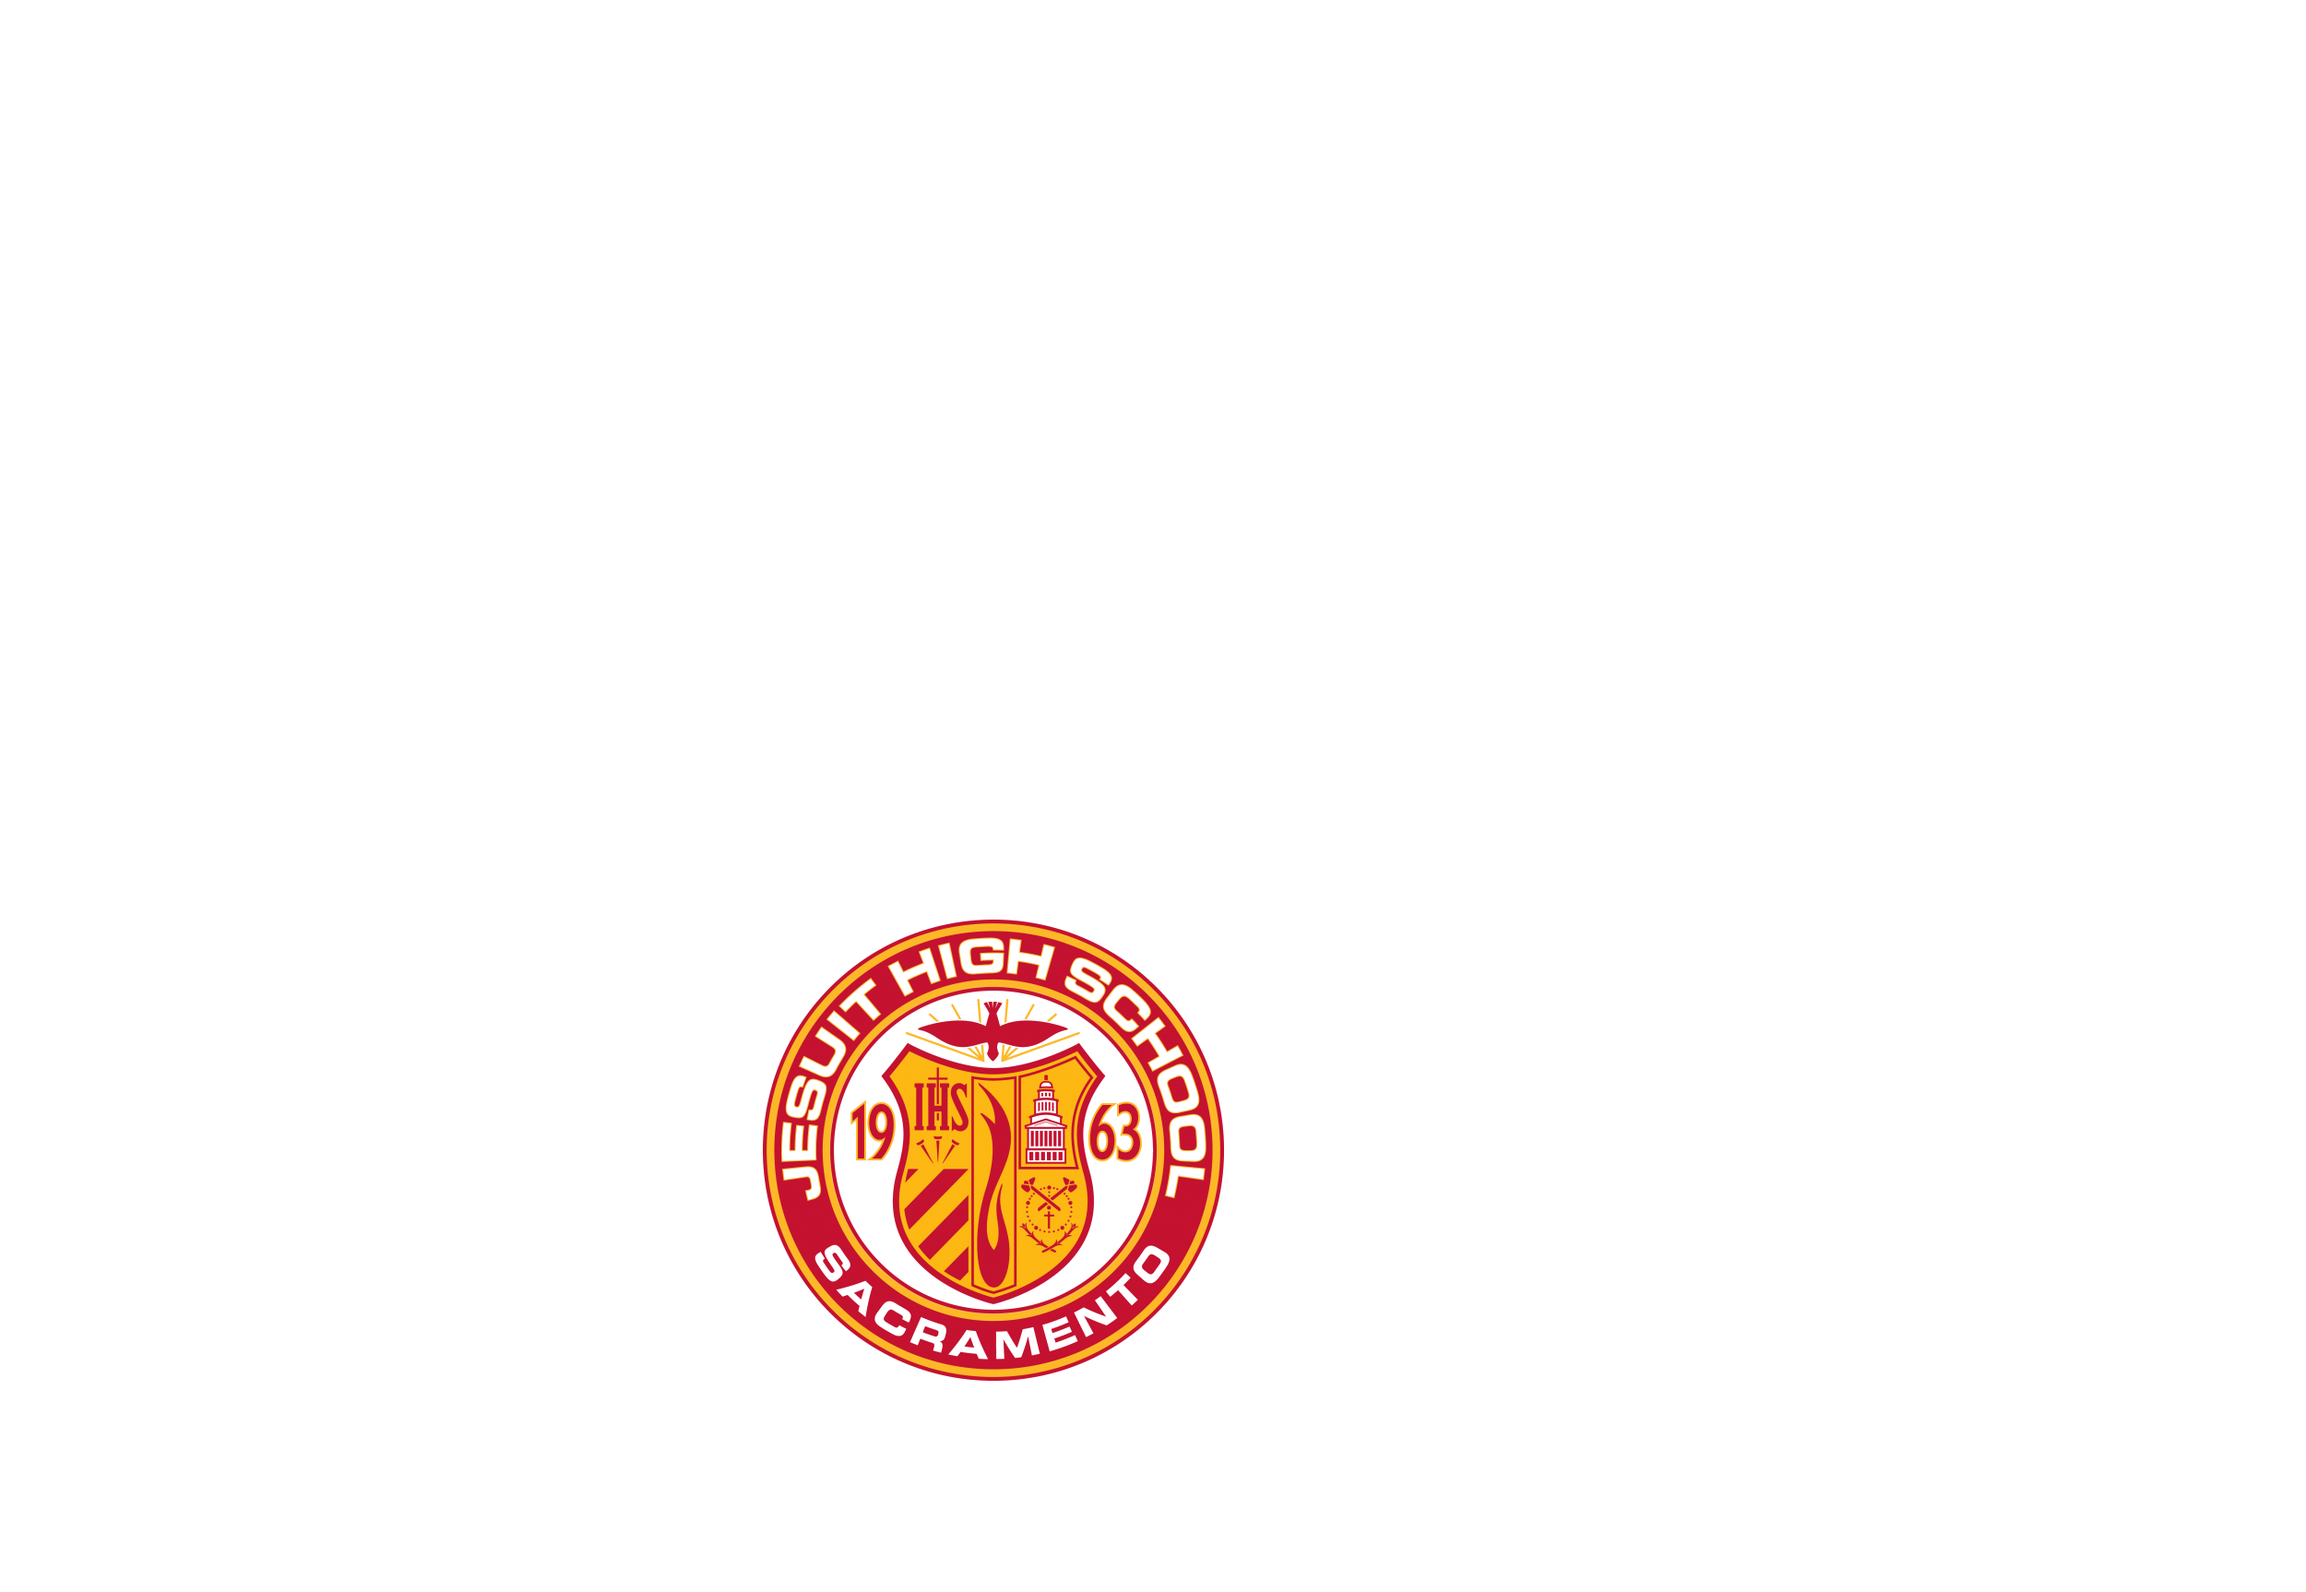
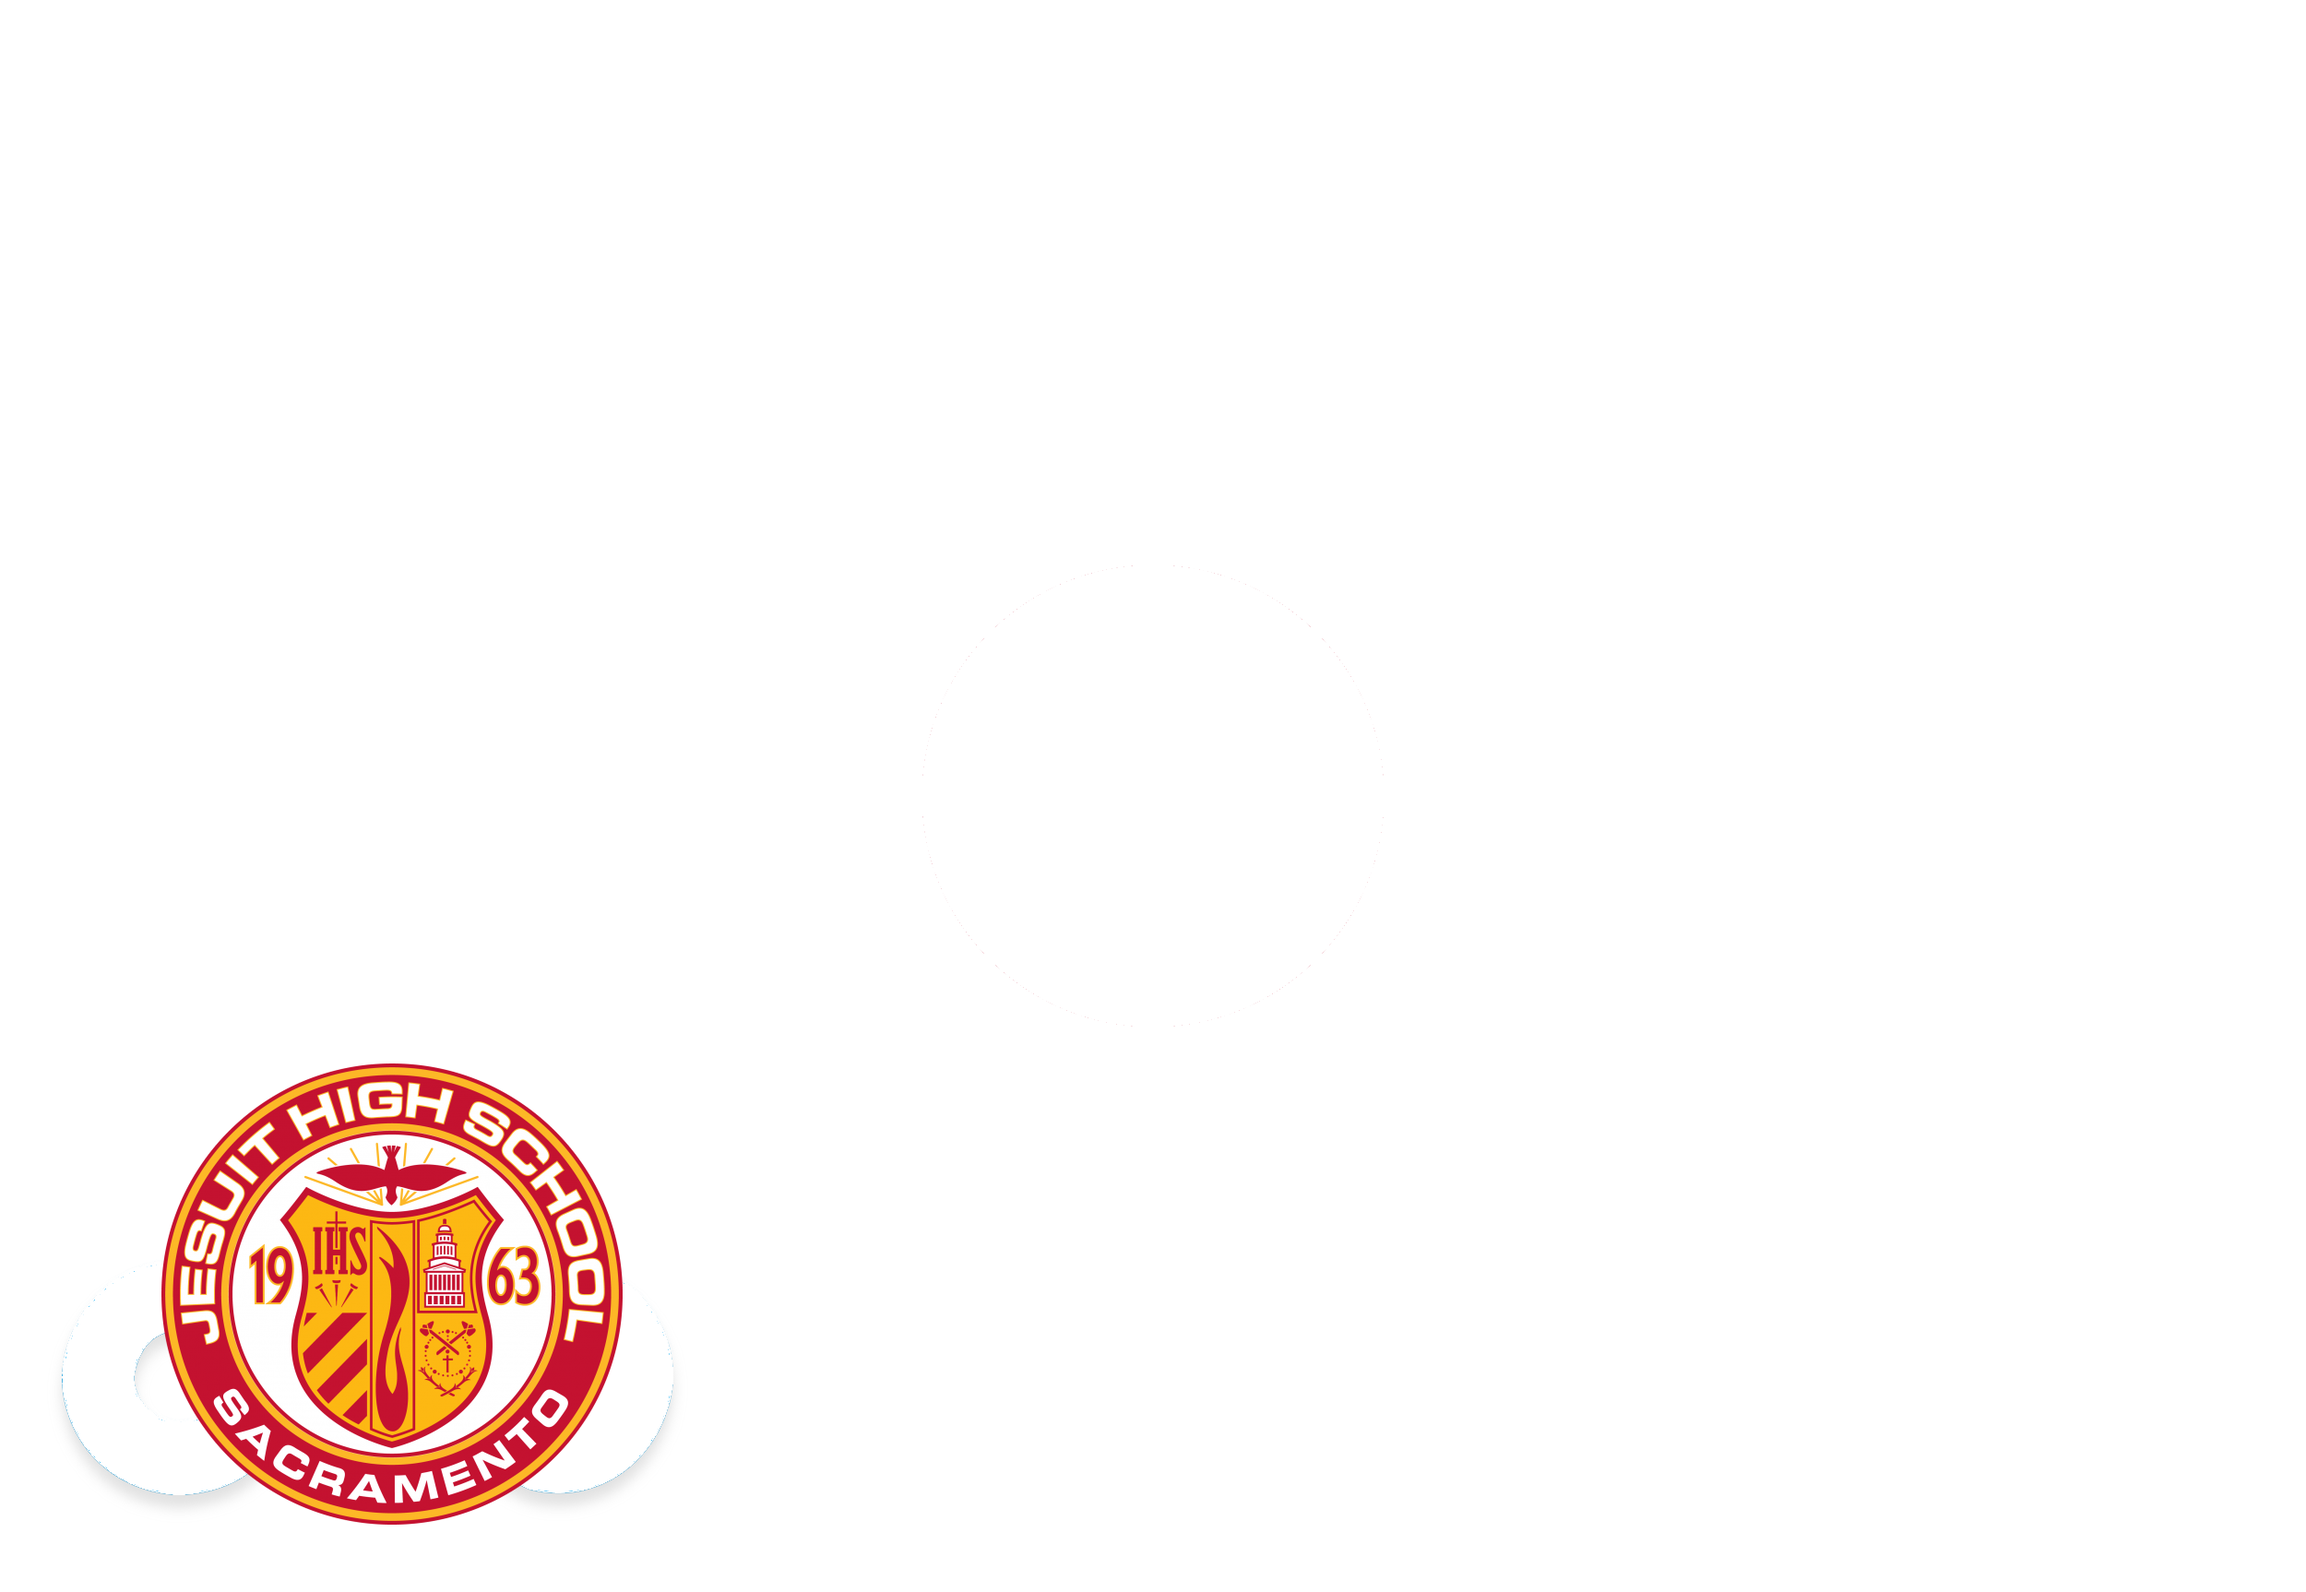
now i did it

Changed region(s): [[0.0624, 0.6448, 0.2808, 0.9826], [0.312, 0.5527, 0.5304, 0.8905]]

diff --git a/css/grayscale.css b/css/grayscale.css
@@ -147,7 +147,7 @@ a:focus {
     padding: 100px 0;
     text-align: center;
     color: #fff;
-    background: url(../img/c9-small.png) no-repeat bottom center scroll;
+    background: url(../img/jesuit-small.png) no-repeat bottom center scroll;
     /* background-color: #000; */
     -webkit-background-size: cover;
     -moz-background-size: cover;
